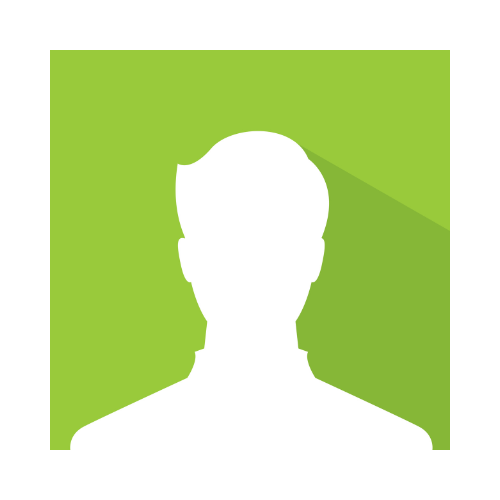
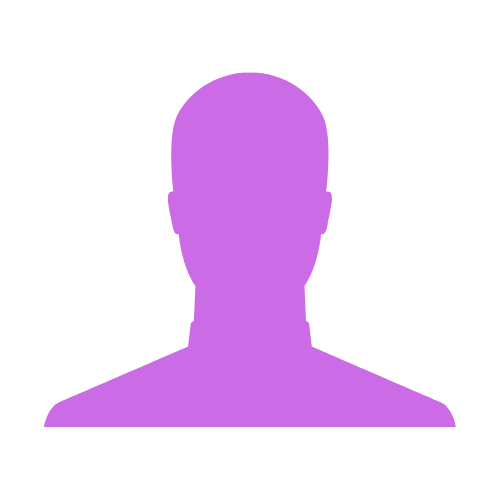
not complete

diff --git a/routes/navigationMenu.js b/routes/navigationMenu.js
@@ -7,26 +7,56 @@ const navigationRoutes = express.Router();
 //              DASHBOARD
 ///////////////////////////////////////////////////////////////
 
-navigationRoutes.get('/edit-profile', async (req, res) => {
-  const id = req.session.user.userId;
-  const { username, first_name, last_name } = req.session.user;
+// navigationRoutes.get('/edit-profile', async (req, res) => {
+//   const id = req.session.user.userId;
+//   const { username, first_name, last_name, profilePicture } = req.session.user;
 
+//   try {
+//     const user = await models.User.findAll({
+//       where: {
+//         id: id,
+//         username: username,
+//         first_name: first_name,
+//         last_name: last_name,
+//         profilePicture: profilePicture,
+//       },
+//     });
+//     // res.json(user);
+//     res.render('edit-profile', {
+//       id: id,
+//       username: username,
+//       first_name: first_name,
+//       last_name: last_name,
+//     });
+//   } catch (error) {
+//     console.log(error);
+//   }
+// });
+
+// navigationRoutes.get('/edit-profile/:id', async (req, res) => {
+//   const id = req.params.session.userId;
+//   console.log(id);
+
+//   const user = await models.User.findByPk(id);
+//   res.json(user);
+//   // res.render('edit-profile', user.dataValues);
+// });
+
+navigationRoutes.post('/edit-profile', async (req, res) => {
+  const id = req.session.user.userId;
+  const profilePicture = req.body.profilePicture;
   try {
-    const user = await models.User.findAll({
-      where: {
-        id: id,
-        username: username,
-        first_name: first_name,
-        last_name: last_name,
-      },
-    });
-    // res.json(user);
-    res.render('edit-profile', {
+    const user = models.Users.build({
       id: id,
-      username: username,
-      first_name: first_name,
-      last_name: last_name,
+      profilePicture: photoURL,
     });
+    const persistedUser = await user.save();
+    console.log(persistedUser);
+    if (persistedUser != null) {
+      res.redirect('/navigation/homepage');
+    } else {
+      res.send('nothing happened');
+    }
   } catch (error) {
     console.log(error);
   }
@@ -34,7 +64,7 @@ navigationRoutes.get('/edit-profile', async (req, res) => {
 
 navigationRoutes.post('/upload', function (req, res) {
   const id = req.session.user.userId;
-  const { username, first_name, last_name } = req.session.user;
+  const { username, first_name, last_name, profilePicture } = req.session.user;
   let sampleFile;
   let uploadPath;
 
@@ -46,18 +76,18 @@ navigationRoutes.post('/upload', function (req, res) {
 
   sampleFile = req.files.sampleFile;
 
-  uploadPath = path.join(__dirname, '..', 'static', 'uploads', sampleFile.name) ;
-  console.log(uploadPath)
+  uploadPath = path.join(__dirname, '..', 'static', 'uploads', sampleFile.name);
+  console.log(uploadPath);
 
   sampleFile.mv(uploadPath, function (err) {
     if (err) {
-      console.log(uploadPath)
+      console.log(uploadPath);
       return res.status(500).send(err);
     }
     photoURL = path.join('..', 'uploads', sampleFile.name);
     console.log(`${photoURL}`);
     res.render('edit-profile', {
-      photoURL: photoURL,
+      profilePicture: photoURL,
       id: id,
       username: username,
       first_name: first_name,
@@ -69,10 +99,7 @@ navigationRoutes.post('/upload', function (req, res) {
 navigationRoutes.get('/homepage', async (req, res) => {
   const { first_name, last_name } = req.session.user;
   try {
-
-
-    res.render("room-dashboard-display", {
-
+    res.render('room-dashboard-display', {
       first_name: first_name,
       last_name: last_name,
       username: req.session.user.username,

diff --git a/models/user.js b/models/user.js
@@ -1,7 +1,5 @@
 'use strict';
-const {
-  Model
-} = require('sequelize');
+const { Model } = require('sequelize');
 module.exports = (sequelize, DataTypes) => {
   class User extends Model {
     /**
@@ -12,19 +10,23 @@ module.exports = (sequelize, DataTypes) => {
     static associate(models) {
       // define association here
       models.User.hasMany(models.Room, {
-        as: "user",
-        foreignKey: "ownerId",
+        as: 'user',
+        foreignKey: 'ownerId',
       });
     }
   }
-  User.init({
-    username: DataTypes.STRING,
-    password: DataTypes.STRING,
-    first_name: DataTypes.STRING,
-    last_name: DataTypes.STRING
-  }, {
-    sequelize,
-    modelName: 'User',
-  });
+  User.init(
+    {
+      username: DataTypes.STRING,
+      password: DataTypes.STRING,
+      first_name: DataTypes.STRING,
+      last_name: DataTypes.STRING,
+      profilePicture: DataTypes.STRING,
+    },
+    {
+      sequelize,
+      modelName: 'User',
+    }
+  );
   return User;
 };

diff --git a/routes/loginRegistration.js b/routes/loginRegistration.js
@@ -26,6 +26,7 @@ userRouter.post('/registration', async (req, res) => {
           password: hash,
           first_name: first_name,
           last_name: last_name,
+          profilePicture: profilePicture,
         });
         const savedUser = await user.save();
         if (savedUser != null) {
@@ -63,6 +64,7 @@ userRouter.post('/login', async (req, res) => {
             username: user.username,
             first_name: user.first_name,
             last_name: user.last_name,
+            profilePicture: user.profilePicture,
           };
           console.log(user);
           res.redirect('/navigation/homepage');
